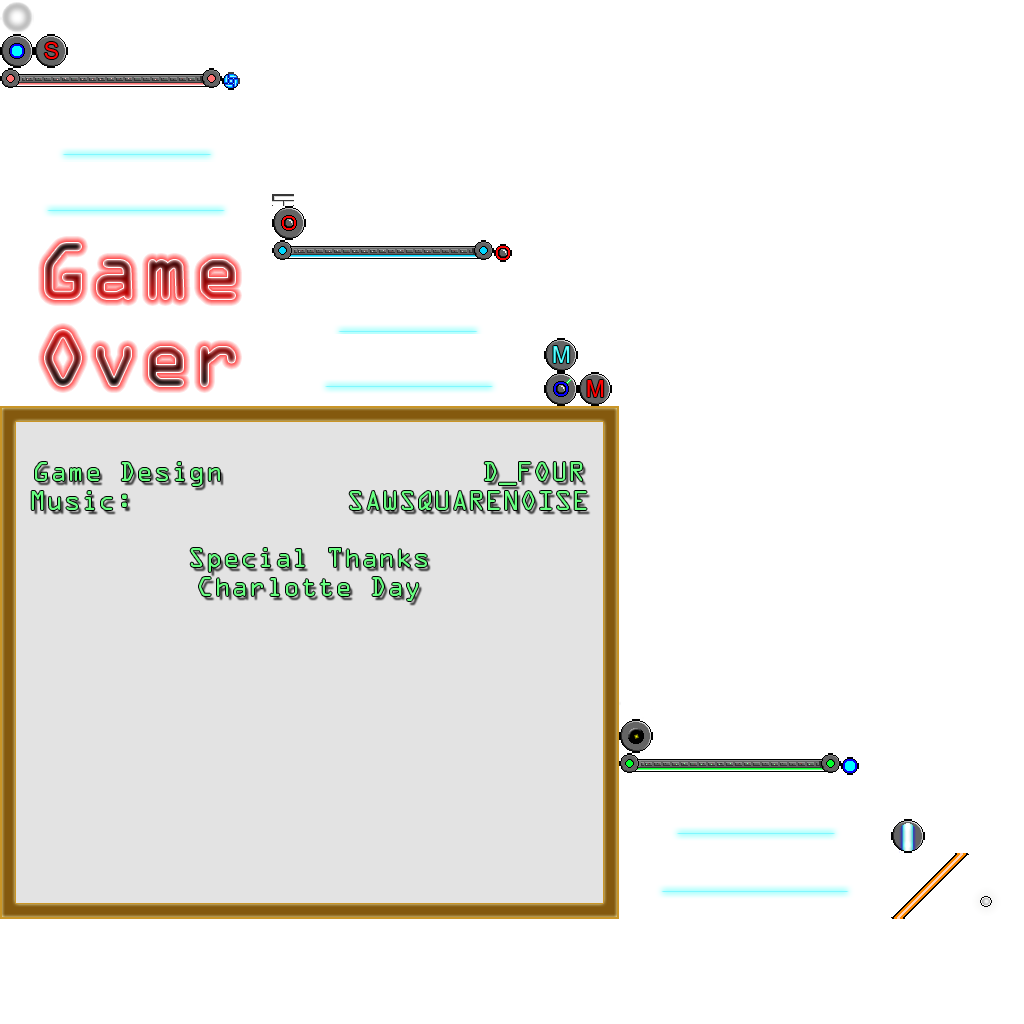
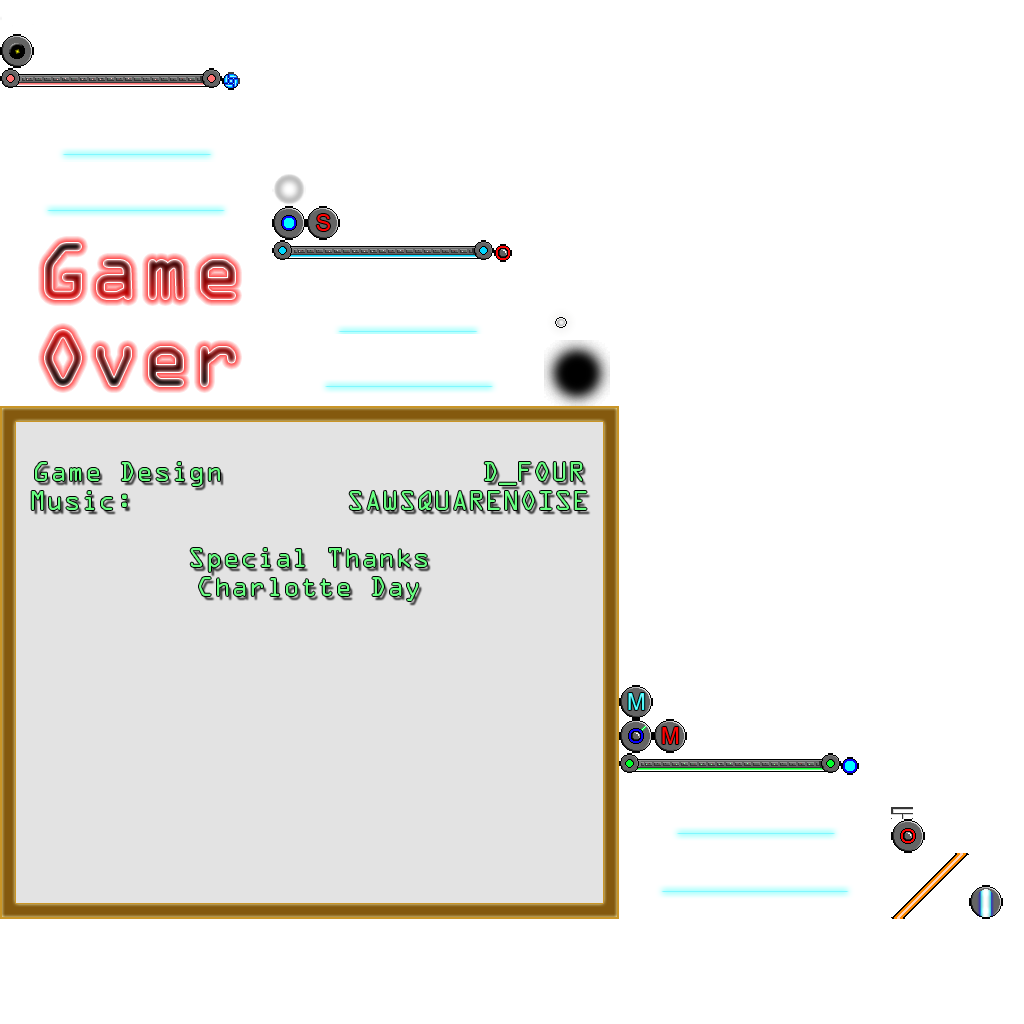
Implementing black hole physics

diff --git a/blockbreaker/core/src/com/dfour/blockbreaker/BBContactListener.java b/blockbreaker/core/src/com/dfour/blockbreaker/BBContactListener.java
@@ -8,6 +8,7 @@ import com.badlogic.gdx.physics.box2d.Fixture;
 import com.badlogic.gdx.physics.box2d.Manifold;
 import com.dfour.blockbreaker.entity.Ball;
 import com.dfour.blockbreaker.entity.Bin;
+import com.dfour.blockbreaker.entity.BlackHole;
 import com.dfour.blockbreaker.entity.Bomb;
 import com.dfour.blockbreaker.entity.Brick;
 import com.dfour.blockbreaker.entity.ExplosionParticle;
@@ -59,9 +60,27 @@ public class BBContactListener implements ContactListener {
 			bombHitSomething((Bomb) fb.getBody().getUserData(),fa);
 		}
 		
-
-
+		if(fa.getBody().getUserData() instanceof BlackHole){
+			if(fa.isSensor()){
+				BlackHoleHitSomething((BlackHole) fa.getBody().getUserData(),fb);
+			}else{
+				objectInVoid(fb);
+			}
+		}else if(fb.getBody().getUserData() instanceof BlackHole){
+			if(fb.isSensor()){
+				BlackHoleHitSomething((BlackHole) fb.getBody().getUserData(),fa);
+			}else{
+				objectInVoid(fa);
+			}
+		}
 	}
+	private void BlackHoleHitSomething(BlackHole blackHole, Fixture fb) {
+		System.out.println("Hit blackhole");
+		
+		blackHole.gravitise(fb.getBody());
+		
+	}
+
 	private void bombHitSomething(Bomb bomb, Fixture fb) {
 		System.out.println("Bomb hit something");
 		if(fb.getBody().getType() == BodyType.StaticBody){
@@ -141,8 +160,24 @@ public class BBContactListener implements ContactListener {
 	
 
 	@Override
-	public void endContact(Contact contact) {		
+	public void endContact(Contact contact) {
+		System.out.println("End Contact");
+		Fixture fa = contact.getFixtureA();
+		Fixture fb = contact.getFixtureB();
+		
+		if(fa.getBody().getUserData() instanceof BlackHole){
+			BlackHoleLeftSomething((BlackHole) fa.getBody().getUserData(),fb);
+		}else if(fb.getBody().getUserData() instanceof BlackHole){
+			BlackHoleLeftSomething((BlackHole) fb.getBody().getUserData(),fa);
+		}
 	}
+	private void BlackHoleLeftSomething(BlackHole blackHole, Fixture fb) {
+		System.out.println("Hit blackhole");
+		//apply force towards black hole to colliding object
+		blackHole.unGravitise(fb.getBody());
+		
+	}
+
 	@Override
 	public void preSolve(Contact contact, Manifold oldManifold) {		
 	}

diff --git a/blockbreaker/core/src/com/dfour/blockbreaker/entity/BlackHole.java b/blockbreaker/core/src/com/dfour/blockbreaker/entity/BlackHole.java
@@ -5,12 +5,15 @@ import com.badlogic.gdx.graphics.Pixmap;
 import com.badlogic.gdx.graphics.Texture;
 import com.badlogic.gdx.graphics.g2d.Sprite;
 import com.badlogic.gdx.graphics.g2d.TextureAtlas.AtlasRegion;
+import com.badlogic.gdx.math.Vector2;
 import com.badlogic.gdx.physics.box2d.Body;
+import com.badlogic.gdx.utils.Array;
 import com.dfour.blockbreaker.BBModel;
 
 public class BlackHole extends Entity{
 	public boolean hasPartyEffect = false;
 	public float lastPartyEffect = 0f;
+	private Array<Body> bodiesInGravity = new Array<Body>();
 
 	public BlackHole(Body bod, AtlasRegion atlasRegion ){
 		this.body = bod;
@@ -30,13 +33,36 @@ public class BlackHole extends Entity{
 		sprite.setOriginCenter();
 		sprite.setScale(0.35f);
 		sprite.setPosition(
-				(body.getPosition().x) * BBModel.BOX_TO_WORLD -(20/2), 
-				(body.getPosition().y)* BBModel.BOX_TO_WORLD -(20/2));
+				(body.getPosition().x) * BBModel.BOX_TO_WORLD -(64/2), 
+				(body.getPosition().y) * BBModel.BOX_TO_WORLD -(64/2));
 
 	}
 	
 	@Override
 	public void update(){
+		for(Body body : bodiesInGravity){
+			float velx = this.body.getPosition().x - body.getPosition().x;
+			float vely = this.body.getPosition().y - body.getPosition().y;
+			float length = (float) Math.sqrt(velx * velx + vely * vely);
+			if (length != 0) {
+				velx = velx / length;
+				vely = vely / length;
+			}
+
+			body.applyForceToCenter(new Vector2(velx * 150, vely * 150), true);	
+		}
 		
+	}
+
+	public void gravitise(Body body) {
+		if(bodiesInGravity.indexOf(body, true) == -1){
+			bodiesInGravity.add(body);
+		}
+	}
+	
+	public void unGravitise(Body body){
+		if(bodiesInGravity.indexOf(body, true) >= 0 ){
+			bodiesInGravity.removeValue(body, true);
+		}
 	}
 }

diff --git a/blockbreaker/core/src/com/dfour/blockbreaker/BBModel.java b/blockbreaker/core/src/com/dfour/blockbreaker/BBModel.java
@@ -18,6 +18,7 @@ import com.badlogic.gdx.physics.box2d.World;
 import com.badlogic.gdx.utils.Array;
 import com.dfour.blockbreaker.controller.AppController;
 import com.dfour.blockbreaker.entity.Ball;
+import com.dfour.blockbreaker.entity.BlackHole;
 import com.dfour.blockbreaker.entity.Bomb;
 import com.dfour.blockbreaker.entity.Brick;
 import com.dfour.blockbreaker.entity.EntityFactory;
@@ -257,6 +258,10 @@ public class BBModel {
 	private void updateObstacles() {
 		for (Spinner spinner : entFactory.spinners){
 			spinner.update();
+		}
+		
+		for (BlackHole blackHole : entFactory.blackHoles){
+			blackHole.update();
 		}
 		
 	}

diff --git a/blockbreaker/core/src/com/dfour/blockbreaker/entity/EntityFactory.java b/blockbreaker/core/src/com/dfour/blockbreaker/entity/EntityFactory.java
@@ -186,7 +186,9 @@ public class EntityFactory {
 	
 	public BlackHole addBlackHole(int x, int y) {
 		Body bhbod = bodyFactory.makeCirclePolyBody(x, y, 1, BodyFactory.WOOD, BodyType.StaticBody);
-		BlackHole bh = new BlackHole(bhbod, null);
+		bodyFactory.makeSensorFixture(bhbod, 5);
+		BlackHole bh = new BlackHole(bhbod, atlas.findRegion("blackhole"));
+		bhbod.setUserData(bh);
 		blackHoles.add(bh);
 		return bh;
 	}
